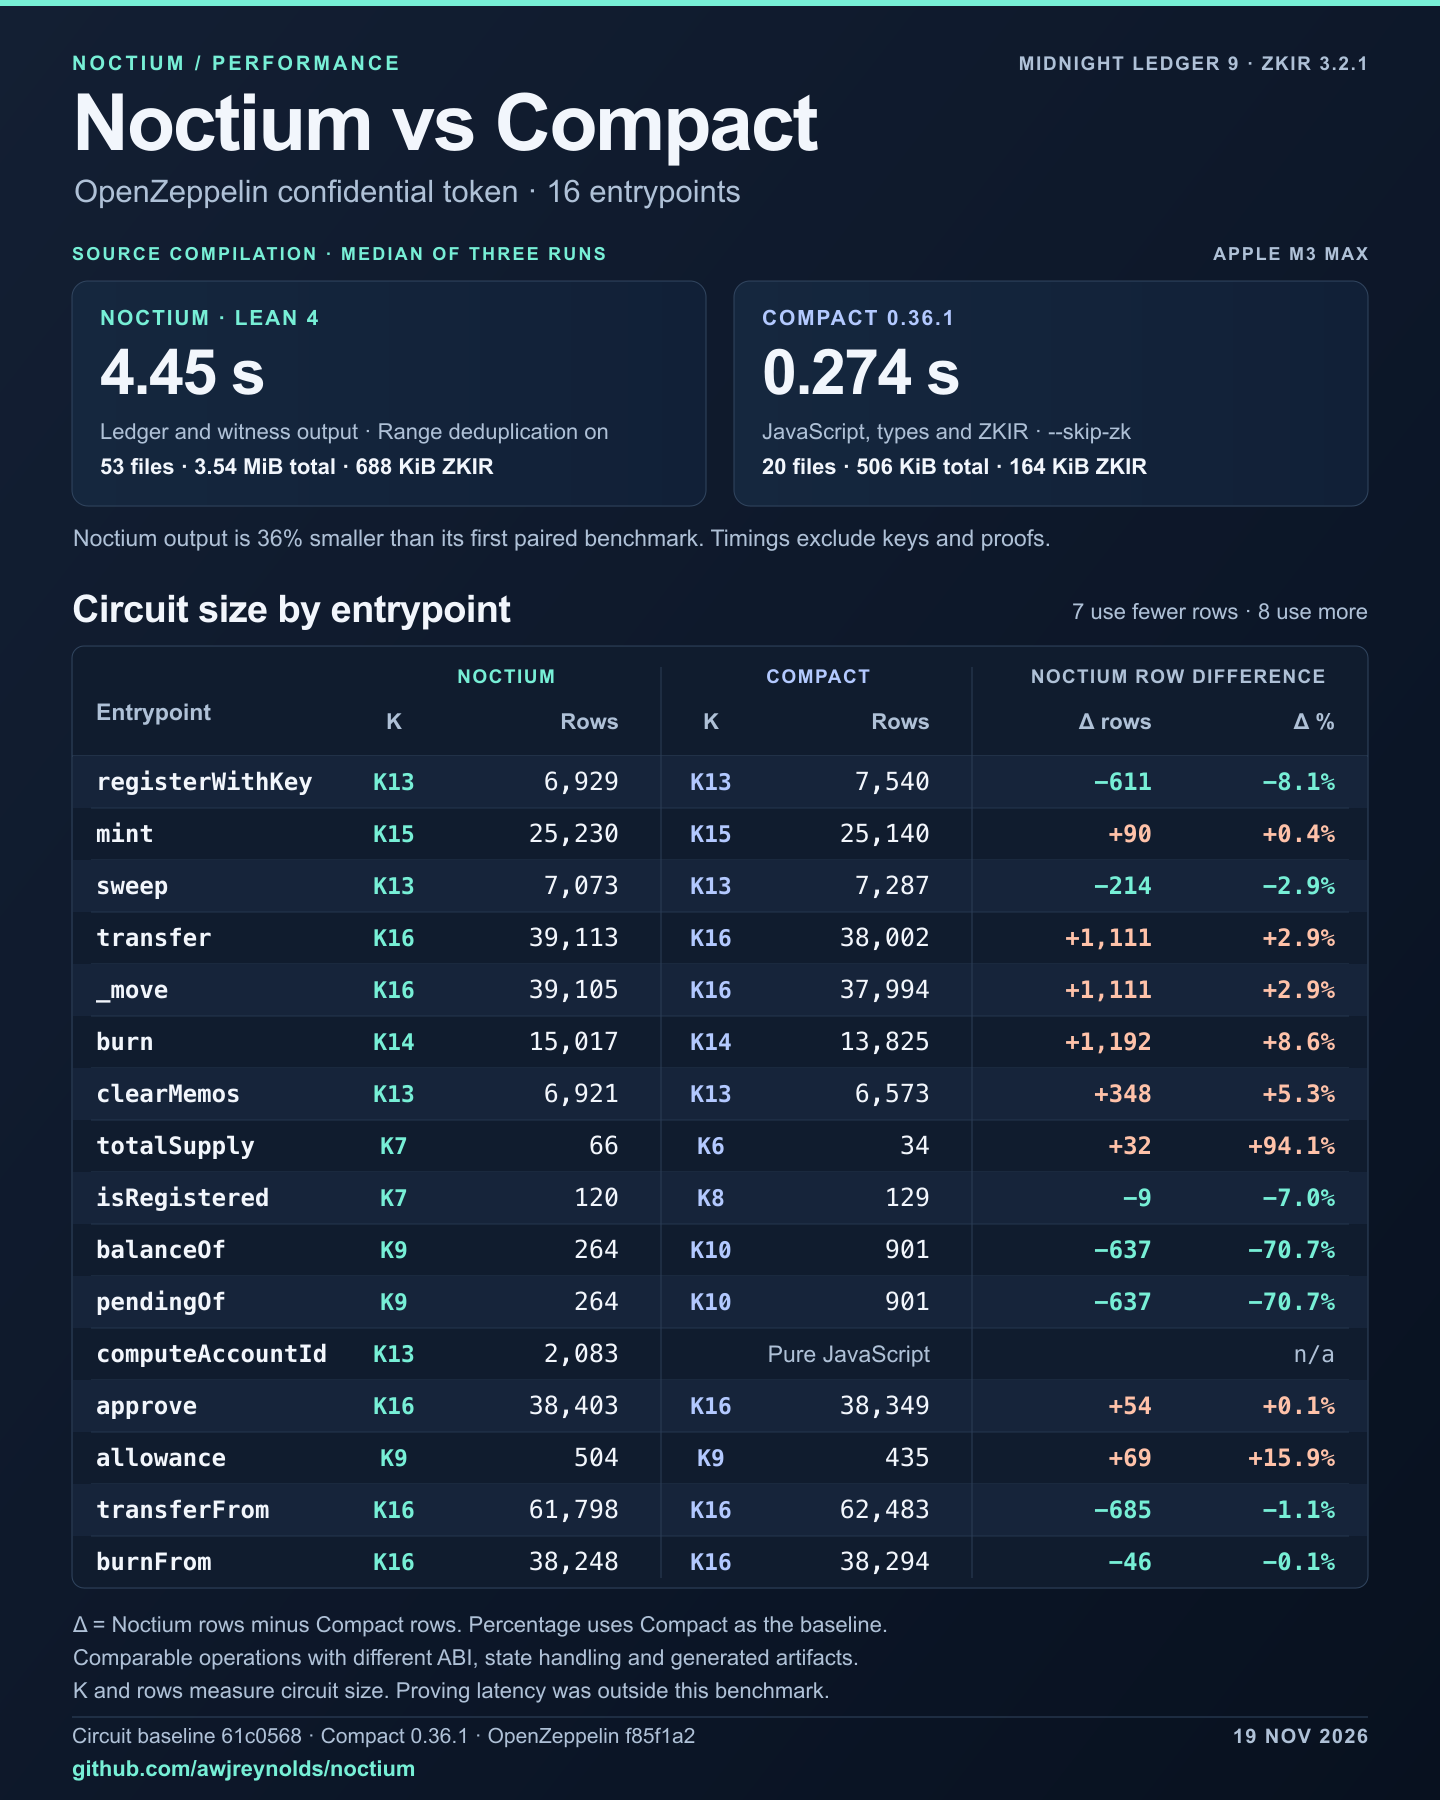
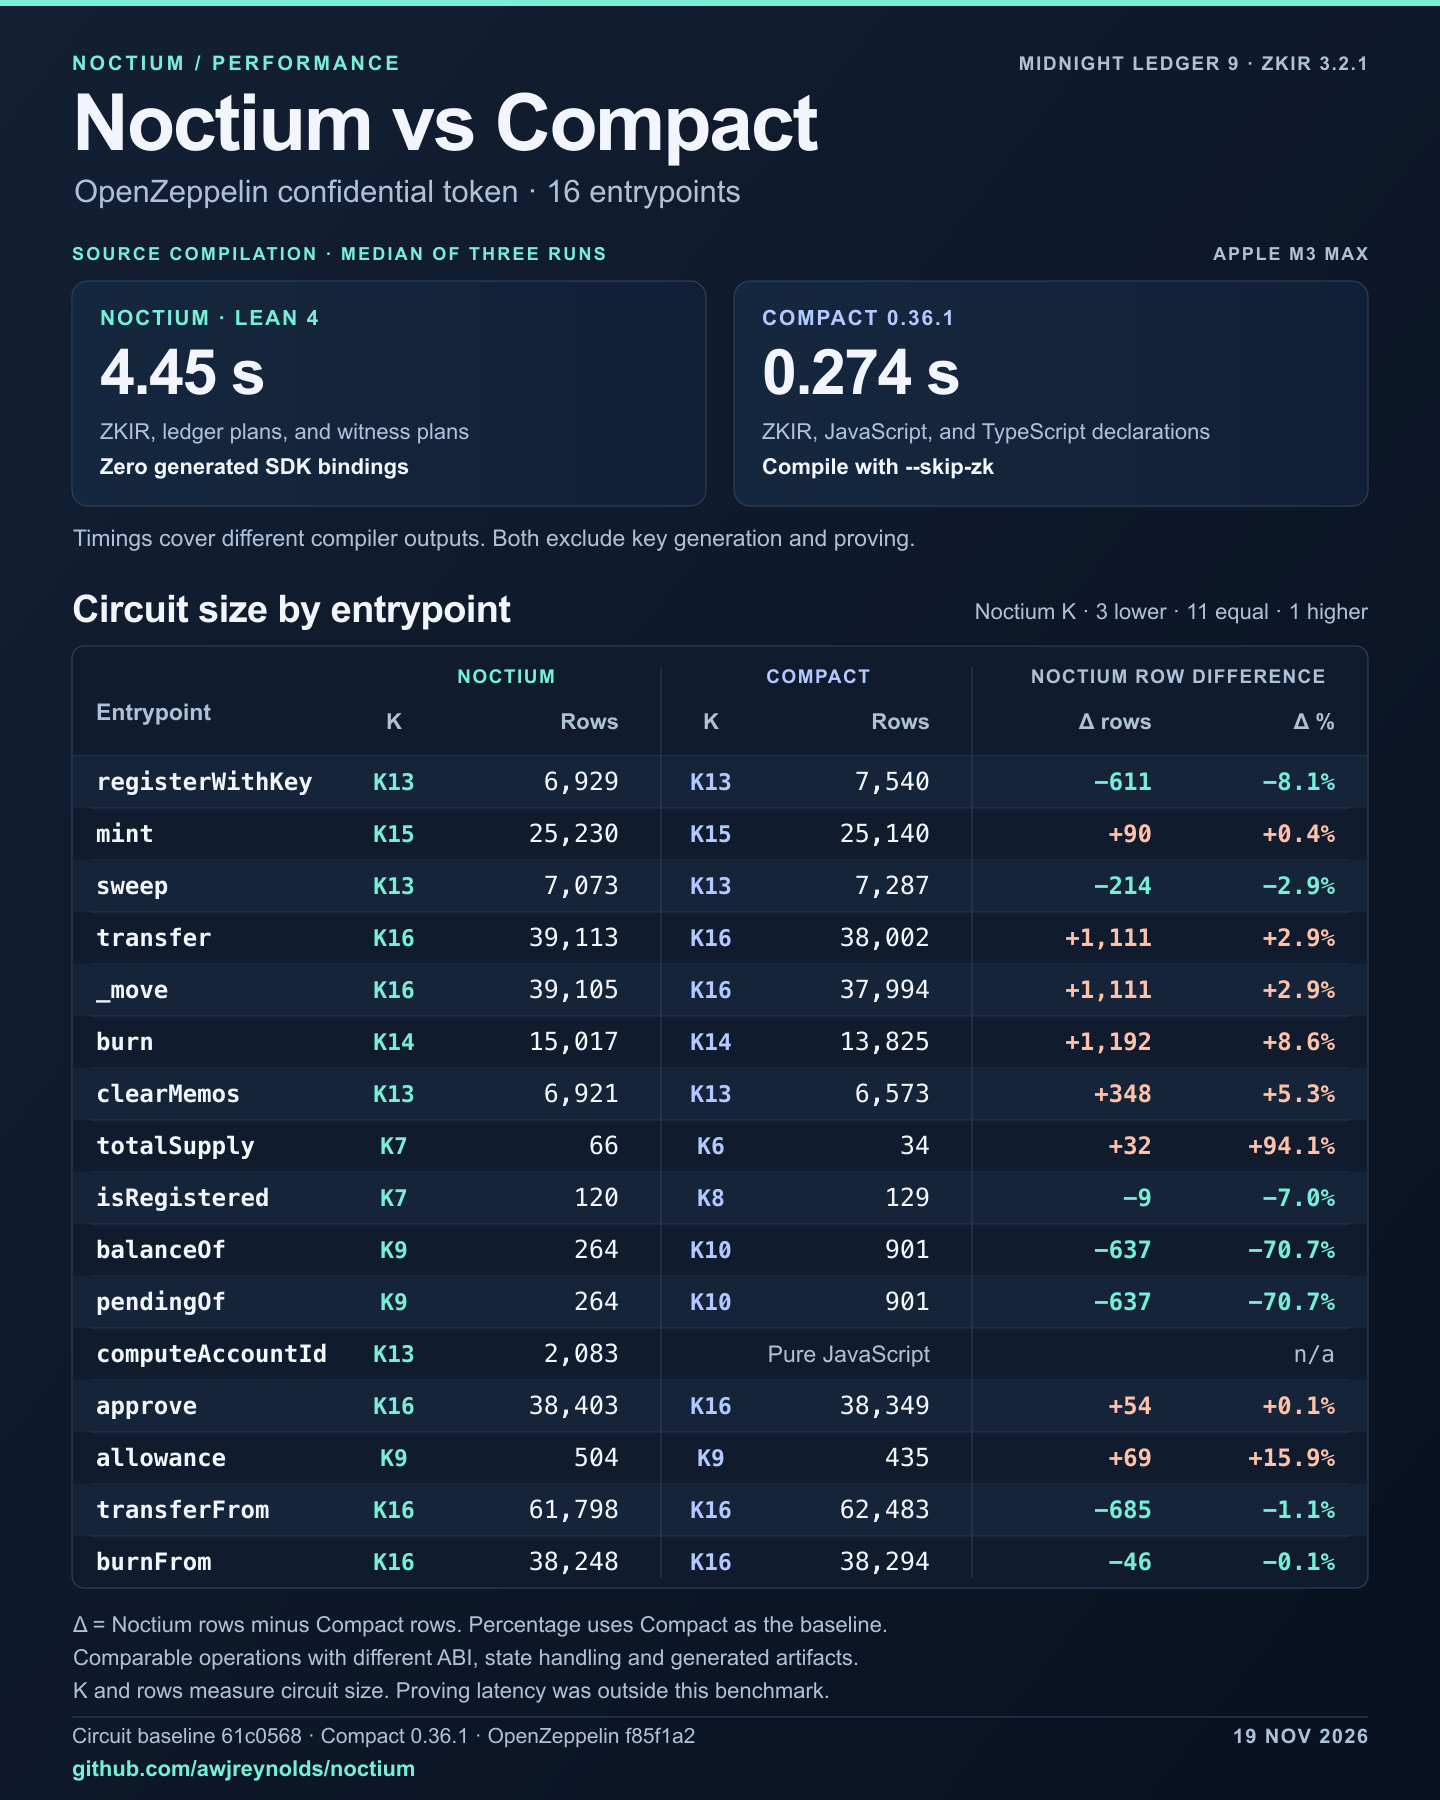
Lead Noctium landing page with capability and circuit comparisons

Changed region(s): [[0.0625, 0.2178, 0.8438, 0.3111], [0.7812, 0.3111, 0.8125, 0.3422]]

diff --git a/docs/compatibility/comparison.md b/docs/compatibility/comparison.md
@@ -1,0 +1,59 @@
+# Noctium and Compact capabilities
+
+This comparison uses Compact 0.36.1, language 0.28, and the selected Noctium target for Midnight Ledger 9 and ZKIR 3.2.1. Scope varies by operation, type and execution path. [Pinned releases and evidence](compact-feature-matrix.json)
+
+## Contract features
+
+| Area | Noctium | Compact 0.36.1 |
+| --- | --- | --- |
+| Types and control | Scoped Lean syntax for fields, bounded integers, Booleans, bytes, records, tuples, vectors and enums. Typed helpers, modules, bounded generics and finite loops. | Field, Uint, Boolean, Bytes, structs, tuples, vectors and enums. Circuits, modules, generics and bounded iteration. |
+| Private witnesses | Typed host providers and wallet-owned cells. Compiler checks private flows to public sinks. Staged writes travel through the host journal. | Witness signatures, host-supplied implementations, application-managed private state and explicit disclosure. |
+| Ledger | Native Impact lowering for checked state effects, typed calls and Ledger 9 events. Funded localnet evidence covers selected composed calls and the token port. | Ledger declarations, state operations, contract references and events through the supported compiler and runtime interfaces. |
+| Cryptography | Typed Jubjub and foreign-field operations, byte and field hashing, and ECDSA, Schnorr and Ed25519 helpers with scoped evidence. | Hashing, typed curve operations and signature helpers through the standard and ZKIR v3 libraries. |
+| Contract specifications | Lean theorems and tactics. The one-time claim has scoped correctness and privacy evidence. General compiler preservation is open. | The pinned compiler's source and generated interfaces provide the comparison baseline for executable contracts. |
+
+[Compact language and compiler](https://github.com/LFDT-Minokawa/compact/tree/7fa3a117c5e7efe9d2c51da04263e5f0b3509144) · [Feature-level evidence and gaps](compact-feature-matrix.json) · [Noctium assurance scope](../designs/architecture.md#assurance-boundaries)
+
+## Witness execution targets
+
+✓ marks a documented execution path. The Compact column covers the pinned compiler's generated contract and witness interfaces. The Noctium column names the qualification for each host.
+
+| Host | Noctium | Compact 0.36.1 |
+| --- | --- | --- |
+| Rust | ✓ Native witness runtime and localnet proof/client path. Optional per-contract Rust wrappers. [Rust witness guide](../development/typed-witnesses.md) | n/a |
+| C / C++ | ✓ C ABI. C++ witness execution and finalized development calls. [Qualification](../development/typed-witness-qualification.md) | n/a |
+| Kotlin / Android | ✓ Native library. Witnesses, proof and finality on an arm64 emulator. [Android guide](../development/android-witness-sdk.md) | n/a |
+| Swift / Apple | ✓ Native library. Witnesses, proof and finality on macOS and the iOS simulator. [Swift guide](../development/swift-witness-sdk.md) | n/a |
+| TypeScript / web | ✓ WASM witness execution and local proof verified in Chrome. [Web guide](../development/web-witness-sdk.md) | ✓ Generated JavaScript execution and TypeScript witness declarations. [Witness guide](https://docs.midnight.network/guides/private-state-witnesses) |
+
+Noctium's host-neutral witness plan serves these runtimes. The OpenZeppelin timing command emits that plan and generates zero SDK bindings. [Benchmark](../development/oz-compile-performance.md)
+
+## Full pinned ZKIR v3 instruction inventory
+
+Noctium registers 40 non-deprecated opcode names through scoped source routes. Compact's column lists the 20 opcode names observed across its 15 retained OpenZeppelin relations. Each relation's bytes matched its recorded SHA-256. Additional source features require their own evidence. [Pinned ZKIR inventory and scope](zkir-feature-matrix.json) · [Benchmark hashes](../development/oz-compile-performance.json)
+
+| Instruction group | Noctium source lowering | Compact in the OpenZeppelin build |
+| --- | --- | --- |
+| Scalar arithmetic and comparison | `add`, `mul`, `neg`, `inv`, `test_eq`, `less_than` | `add`, `neg`, `test_eq`, `less_than` |
+| Logic and selection | `not`, `and`, `or`, `xor`, `cond_select` | `cond_select` |
+| Constraints | `assert`, `constrain_bits`, `constrain_eq`, `constrain_to_boolean` | `assert`, `constrain_bits` |
+| Inputs, outputs and ledger binding | `public_input`, `private_input`, `impact`, `output`, `copy`, `load_constant` | `public_input`, `private_input`, `impact`, `output`, `copy` |
+| Bytes and encoding | `encode`, `to_bytes`, `from_bytes`, `bytes_from_natives`, `bytes_into_natives`, `nth`, `reverse`, `slice`, `concat` | `encode`, `bytes_into_natives` |
+| Hashes | `transient_hash`, `persistent_hash`, `sha512`, `keccak256`, `hash_to_curve` | `persistent_hash` |
+| Curve operations | `jubjub_scalar_from_native`, `ec_mul_generator`, `ec_mul`, `from_coordinates`, `into_coordinates` | `jubjub_scalar_from_native`, `ec_mul_generator`, `ec_mul`, `from_coordinates`, `into_coordinates` |
+
+The pin also defines seven deprecated instructions. Noctium leaves these unexposed.
+
+`into_bytes32`, `from_bytes32`, `reverse_bytes`, `bytes32_into_low_high`, `bytes32_from_low_high`, `div_mod_power_of_two`, `reconstitute_field`
+
+## Full pinned ZKIR v3 type inventory
+
+Noctium uses all 15 native type families in scoped source or lowering paths. Bool, Byte and Bytes also appear as derived encodings or internal intermediates. [Type and overload evidence](zkir-feature-matrix.json)
+
+| Family | Native types |
+| --- | --- |
+| Scalars and bytes | `Native`, `Bool`, `Byte`, `Bytes` |
+| Jubjub | `JubjubScalar`, `JubjubPoint` |
+| Secp256k1 | `Secp256k1Base`, `Secp256k1Scalar`, `Secp256k1Point` |
+| Secp256r1 | `Secp256r1Base`, `Secp256r1Scalar`, `Secp256r1Point` |
+| Curve25519 | `Curve25519Base`, `Curve25519Scalar`, `Curve25519Point` |

diff --git a/README.md b/README.md
@@ -1,12 +1,12 @@
-<p align="center">
-  <img src="docs/assets/noctium-pitch.png" alt="Noctium research preview. Lean 4 contracts and checked specifications compile directly to native Midnight artifacts. Scoped support covers all 40 non-deprecated native instruction names and 15 native type families. Native Rust and C/C++ SDKs, typed helpers, modules, generics, composite values, guarded control and witnesses are implemented. Full native coverage, contract composition and web/mobile SDKs remain goals." width="100%">
-</p>
+# Noctium
+
+Lean 4 contracts and proofs for Midnight. Noctium compiles directly to native ZKIR and Impact ledger plans.
 
 <p align="center">
-  <a href="#try-the-compiler">Quick start</a> ·
+  <a href="docs/compatibility/comparison.md">Capability comparison</a> ·
   <a href="#openzeppelin-benchmark">Benchmark</a> ·
+  <a href="#try-the-compiler">Quick start</a> ·
   <a href="docs/README.md">Documentation</a> ·
-  <a href="docs/assets/noctium-pitch.png">Project pitch</a> ·
   <a href="docs/designs/architecture.md">Architecture &amp; assurance</a> ·
   <a href="https://github.com/awjreynolds/noctium/issues/1">Roadmap</a>
 </p>
@@ -15,7 +15,27 @@
   <a href="https://github.com/awjreynolds/noctium/actions/workflows/ci.yml"><img src="https://github.com/awjreynolds/noctium/actions/workflows/ci.yml/badge.svg" alt="POC compiler checks CI"></a>
 </p>
 
-Noctium is a Lean 4 compiler and proof framework for Midnight private contracts. Define the behavior your contract must satisfy, prove those properties against the actual source, and compile directly to Midnight's native formats.
+## ZKIR v3 and witness targets
+
+The selected ZKIR 3.2.1 profile has 47 instruction names. Noctium registers all 40 non-deprecated opcodes and uses 15 native type families through scoped source and lowering paths. [Full instruction and type lists, grouped against Compact 0.36.1](docs/compatibility/comparison.md)
+
+| Witness host | Noctium | Compact compiler |
+| --- | --- | --- |
+| Rust | ✓ Native | n/a |
+| C / C++ | ✓ Native ABI | n/a |
+| Kotlin / Android | ✓ Native, emulator tested | n/a |
+| Swift / Apple | ✓ Native, macOS and iOS simulator tested | n/a |
+| TypeScript / web | ✓ WASM, Chrome tested | ✓ Generated JavaScript and TypeScript declarations |
+
+The checkmarks cover specific documented workloads. [SDK evidence and scope](docs/compatibility/comparison.md#witness-execution-targets)
+
+## OpenZeppelin benchmark
+
+The Noctium confidential-token build took a median of 4.45 s. Compact 0.36.1 took 0.274 s on the same M3 Max. The builds emit different outputs and both timings exclude key generation and proving. The Noctium run generated zero SDK bindings. Across 15 paired circuits, Noctium reached a lower K on three, matched 11, and reached a higher K on one. [Full measurements and artifact inventory](docs/development/oz-compile-performance.md)
+
+[![Noctium and Compact compilation times and per-entrypoint K and row counts for the OpenZeppelin confidential token](docs/assets/noctium-performance.png)](docs/assets/noctium-performance.png)
+
+## Write and prove a contract
 
 - **Write** circuit constraints and ledger transitions in a typed Lean DSL.
 - **Specify and prove** correctness, invariants and scoped privacy with ordinary Lean theorems and tactics.
@@ -50,12 +70,6 @@ Add `--dedup-range-checks` to reuse earlier range checks and identical bounded c
 For native proofs and transactions, follow the [Rust client guide](docs/development/native-client.md) or [C/C++ client ABI](docs/development/native-client-abi.md), [retained artifact workflow](docs/development/portable-artifacts.md) and [pinned native toolchain setup](docs/development/native-toolchain.md). Those paths add Rust, native build tools, proving parameters and an isolated localnet. The [JavaScript development harness](docs/development/native-contract.md) is an optional reproducibility path.
 
 Use `Noctium.Frontend`, the `Noctium` scope and `noctium_*` declarations. Native hosts use `noctium_*` C symbols and `noctium_*.h` headers. The compiler and runtime now use one [canonical namespace](docs/development/namespaces.md).
-
-## OpenZeppelin benchmark
-
-The latest Noctium confidential-token build took 4.45 s and emitted 3.54 MiB. Compact 0.36.1 took 0.274 s on the same M3 Max with a different artifact set. Noctium used fewer rows on seven paired circuits and more on eight. [Full measurements and reproduction](docs/development/oz-compile-performance.md)
-
-[![Noctium and Compact comparison for each of 16 OpenZeppelin entrypoints, with compile times, artifact sizes, K, rows and row differences](docs/assets/noctium-performance.png)](docs/assets/noctium-performance.png)
 
 ## A small, real example
 

diff --git a/docs/development/oz-compile-performance.md b/docs/development/oz-compile-performance.md
@@ -1,25 +1,36 @@
 # OpenZeppelin confidential-token compilation benchmark
 
-The latest Noctium OpenZeppelin build took **4.45 s** and produced **3.54 MiB**. The paired baseline measured **4.65 s** for Noctium and **0.274 s** for Compact 0.36.1. The Noctium run uses range deduplication and emits ledger and witness artifacts. Compact emits its source artifacts with `--skip-zk`. Both exclude keys and proofs.
+The chart compares a median source build of **4.45 s** for Noctium and **0.274 s** for Compact 0.36.1. Noctium uses range deduplication and generates zero SDK bindings. Compact runs with `--skip-zk`. Both timings exclude key generation and proving. Of the 15 paired circuits, Noctium reaches a lower K on three, matches 11, and reaches a higher K on one.
 
-![Noctium and Compact benchmark showing compilation time, artifact sizes, and K and rows for all 16 entrypoints](../assets/noctium-performance.png)
+![Noctium and Compact compilation time and per-entrypoint circuit K and rows](../assets/noctium-performance.png)
 
-## Current compilation and artifact sizes
+## Source compilation
 
-| Compiler output | Three source runs (s) | Median (s) | Output files | Total bytes | ZKIR bytes |
-| --- | ---: | ---: | ---: | ---: | ---: |
-| Noctium ledger and witness, minified plans | 4.57 / 4.45 / 4.45 | 4.45 | 53 | 3,707,277 | 704,238 |
-| Noctium ledger and witness, plan digests | 6.00 / 4.59 / 4.58 | 4.59 | 53 | 4,542,348 | 758,817 |
-| Noctium ledger and witness, paired baseline | 4.873 / 4.647 / 4.588 | 4.647 | 53 | 5,805,683 | 758,817 |
-| Compact 0.36.1 with `--skip-zk` | 0.274 / 0.286 / 0.274 | 0.274 | 20 | 518,022 | 167,669 |
+| Compiler output | Three source runs (s) | Median (s) |
+| --- | ---: | ---: |
+| Noctium ledger and witness, minified plans | 4.57 / 4.45 / 4.45 | 4.45 |
+| Noctium ledger and witness, plan digests | 6.00 / 4.59 / 4.58 | 4.59 |
+| Noctium ledger and witness, paired baseline | 4.873 / 4.647 / 4.588 | 4.647 |
+| Compact 0.36.1 with `--skip-zk` | 0.274 / 0.286 / 0.274 | 0.274 |
 
-The paired baseline used three alternating runs on an Apple M3 Max with prebuilt compilers, warm dependencies, fresh processes and new output directories. The Noctium follow-ups ran on the same machine. All three latest runs reproduced the emitted bytes. Byte counts use the files emitted before sizing. The ABI, state handling and artifact sets differ. [Machine-readable measurements and hashes](oz-compile-performance.json)
+The paired baseline used three alternating runs on an Apple M3 Max with prebuilt compilers, warm dependencies, fresh processes and new output directories. The Noctium follow-ups ran on the same machine. All three minified-plan runs reproduced the emitted bytes. The ABI, state handling and artifact sets differ. [Machine-readable measurements and hashes](oz-compile-performance.json)
 
-Noctium emits 16 ZKIR relations, 16 Impact ledger plans, 10 witness bindings,
-10 private execution plans and `noctium.json`. The run emits zero language
-bindings. Compact emits 15 ZKIR relations, one JavaScript module, a source map,
-a TypeScript declaration and two metadata files. `computeAccountId` runs in
-JavaScript in the Compact build.
+### Artifact inventory
+
+| Compiler output | Output files | Total bytes | ZKIR bytes |
+| --- | ---: | ---: | ---: |
+| Noctium ledger and witness, minified plans | 53 | 3,707,277 | 704,238 |
+| Noctium ledger and witness, plan digests | 53 | 4,542,348 | 758,817 |
+| Noctium ledger and witness, paired baseline | 53 | 5,805,683 | 758,817 |
+| Compact 0.36.1 with `--skip-zk` | 20 | 518,022 | 167,669 |
+
+Noctium exports 16 ZKIR relations, 16 Impact ledger plans, 10 witness bindings,
+10 language-neutral witness execution plans and `noctium.json`. The plans and
+their embedded metadata account for most of Noctium's bytes. The timing command
+requests zero SDK bindings. Compact exports 15 ZKIR relations, one JavaScript
+module, a source map, a TypeScript declaration and two metadata files.
+`computeAccountId` runs in JavaScript in the Compact build. Byte counts use the
+files emitted before sizing. The circuit comparison below uses K and rows.
 
 The ledger-only manifest now records each Impact plan's SHA-256 digest. The
 manifest shrank from 1,348,540 to 85,205 bytes, reducing total output by 21.8%.

diff --git a/docs/README.md b/docs/README.md
@@ -15,6 +15,7 @@ Write a contract, prove its specified behavior in Lean, and compile for Midnight
 | Review contract correctness | [Actual-source proofs](development/private-claim-proofs.md), [registered obligations and axiom policy](development/proof-registration.md) |
 | Review compilation and trust | [Layered guarantees](designs/architecture.md#assurance-boundaries), [source-to-artifact proof chain](#follow-the-proof-chain) |
 | Review scope and contribute | [Capability goal](compatibility/GOAL.md), [public issue map](https://github.com/awjreynolds/noctium/issues/1), [contributing](../CONTRIBUTING.md) |
+| Compare Noctium and Compact | [ZKIR v3 inventory and witness targets](compatibility/comparison.md), [OpenZeppelin benchmark](development/oz-compile-performance.md) |
 | Follow the complex-contract POC | [OpenZeppelin token port and feature dependencies](development/openzeppelin-port.md) |
 
 ## Reproduce native evidence
@@ -85,8 +86,8 @@ Older spike and packaging reports preserve historical evidence. Use the current 
 
 The [Verity comparison](research/verity-lessons.md) records lessons for compiler proof structure, theorem scope and audit reporting, with immutable upstream sources.
 
-## Project visual
+## Benchmark graphic
 
-The [1600 × 900 project pitch](assets/noctium-pitch.png) and [editable SVG](assets/noctium-pitch.svg) give one shareable view of Noctium. The graphic separates scoped implementation counts and Lean features from full-coverage, composition and web/mobile SDK goals. Assets use the repository's [MIT license](../LICENSE).
+The [OpenZeppelin benchmark graphic](assets/noctium-performance.png) shows compile times and circuit K and rows across the 16 entrypoints. [Editable SVG](assets/noctium-performance.svg) · [Measurements](development/oz-compile-performance.md)
 
-The [OpenZeppelin benchmark graphic](assets/noctium-performance.png) compares all 16 entrypoints, source compile times and emitted artifact sizes. [Editable SVG](assets/noctium-performance.svg) · [Measurements](development/oz-compile-performance.md)
+The [earlier project pitch](assets/noctium-pitch.png) records the initial research preview. [Editable SVG](assets/noctium-pitch.svg) · [MIT license](../LICENSE)
